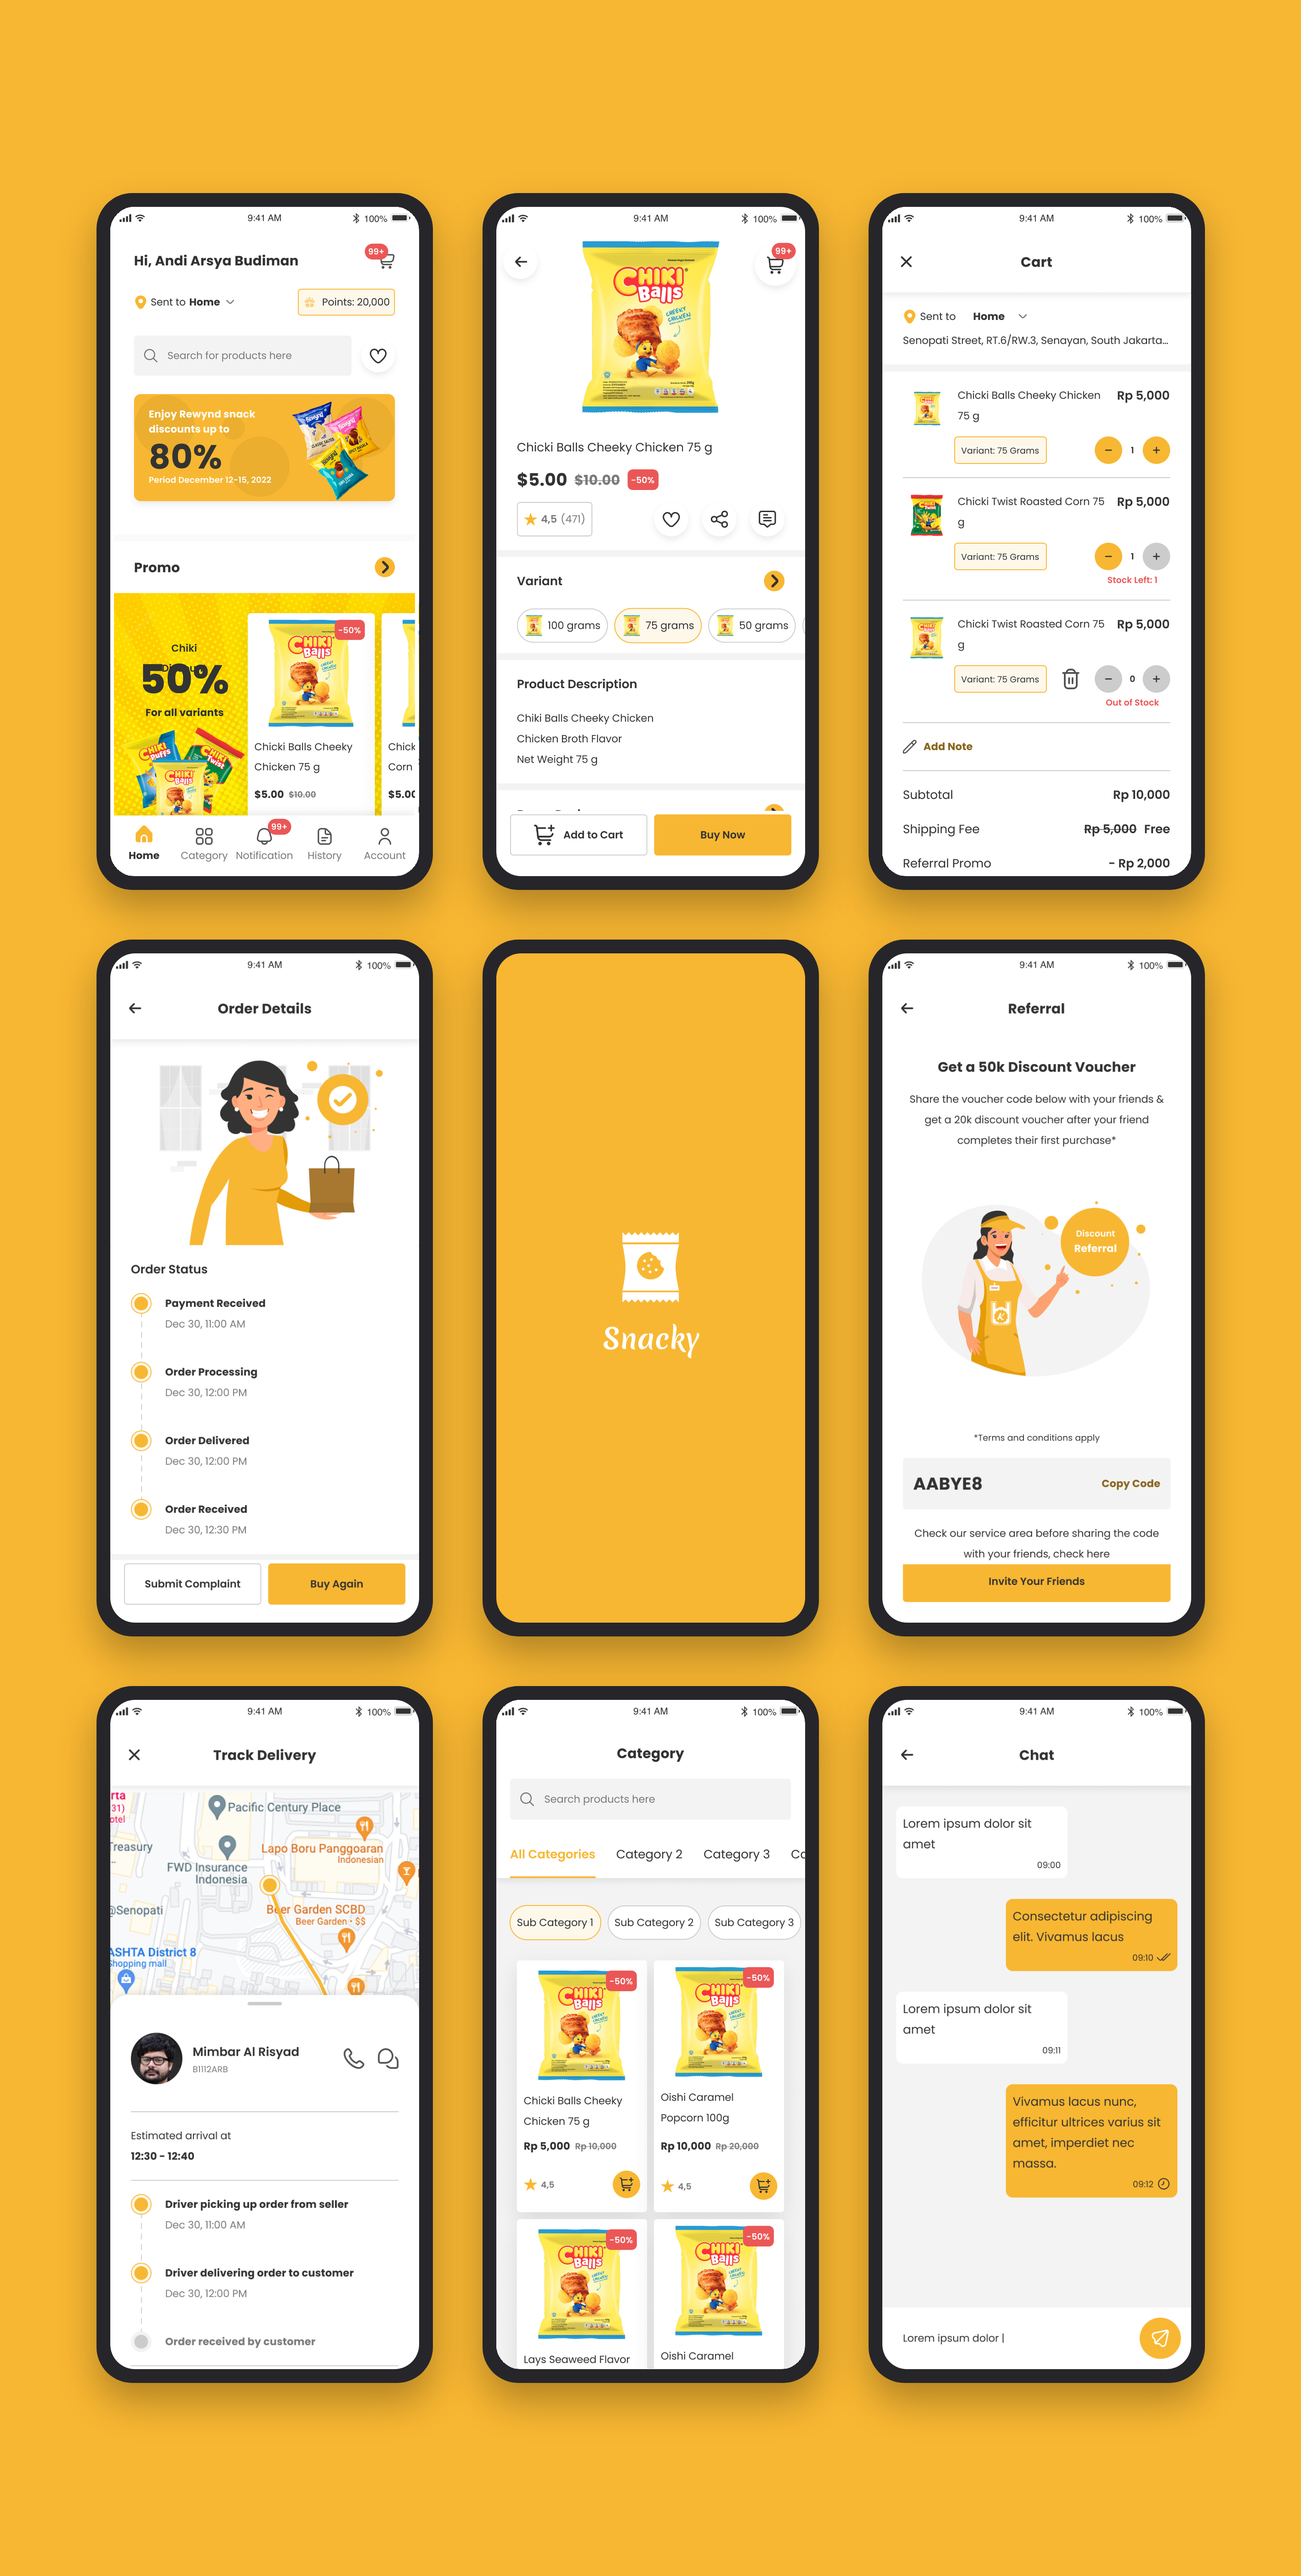
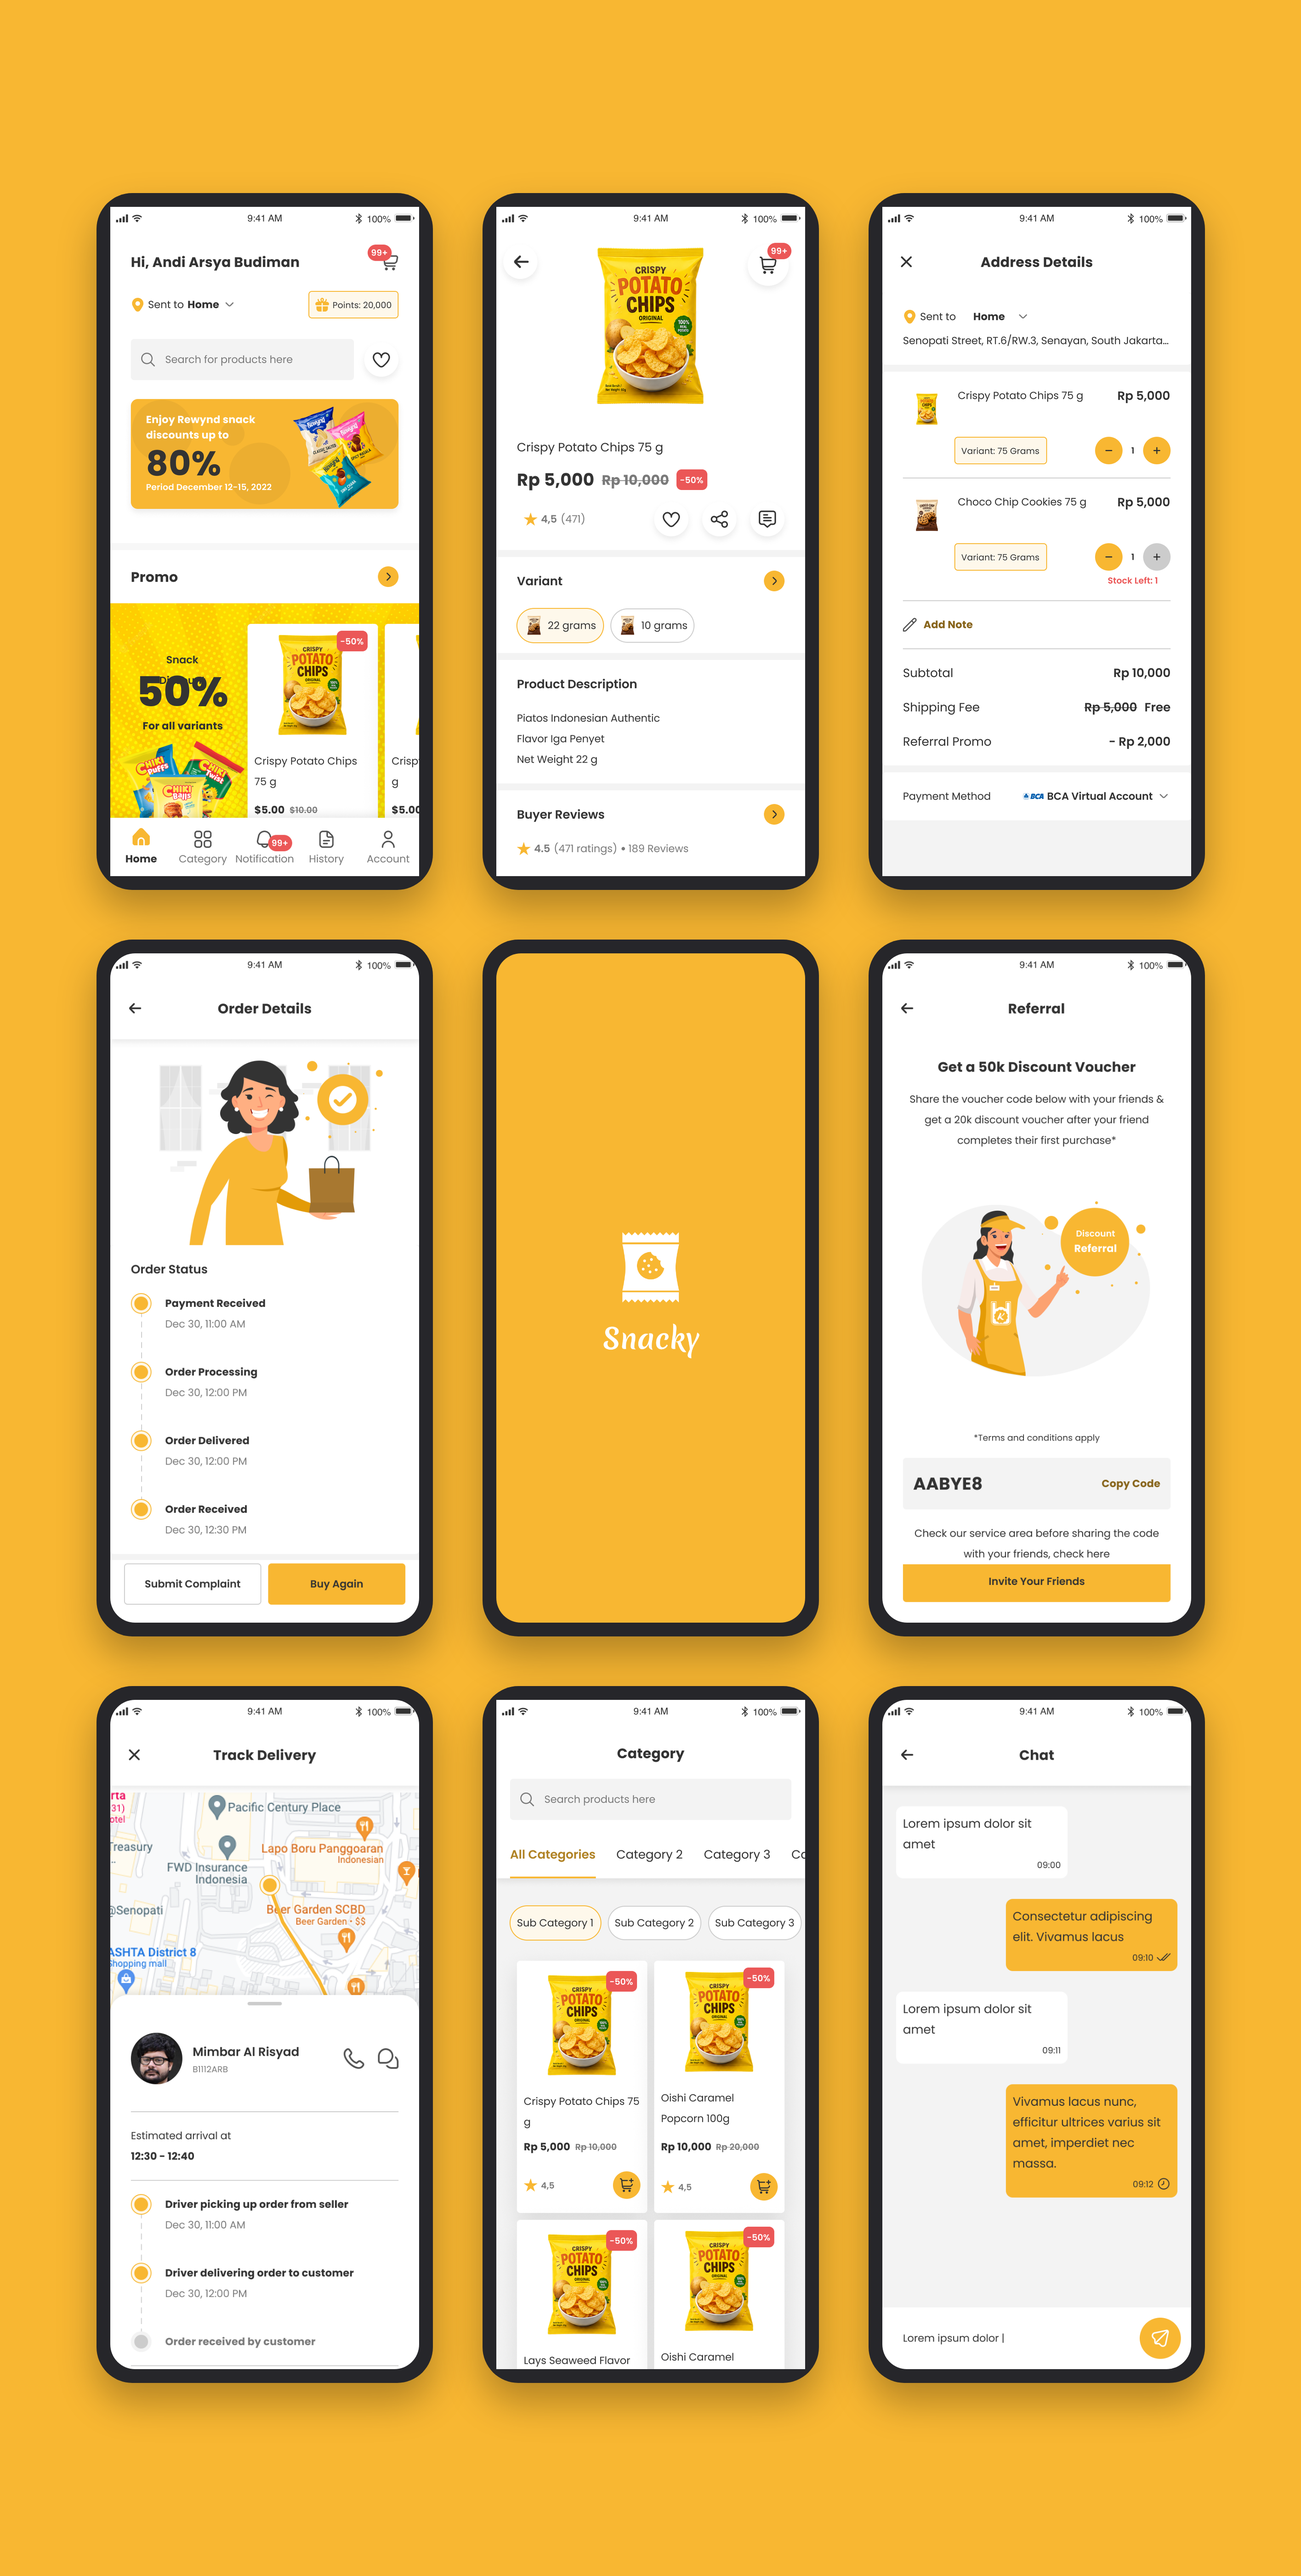
Update the homepage showcase mockup and fix two more Chiki instances
showcase-mockup.png (rendered on index.html's own homepage) was the actual
file the user asked about, missed earlier because the search went to Figma
and the external article project instead of this repo's own assets folder.
Rebuilt the four affected phone screens in the collage from fresh exports of
the now-fixed Figma frames. That surfaced two more photo/text mismatches the
Product Card fix never reached (Home's promo cards and Kategori's first card
run through a separate, unlinked local component), fixed the same way.

diff --git a/CLAUDE.md b/CLAUDE.md
@@ -905,9 +905,56 @@ silently and needs `connect --safe` re-run before most calls (harmless, just
 retry); and `export node`/`verify` at a high `--scale` on a tall/dense frame
 reliably times out with a bare "fetch failed" while the same call at `--scale
 1-2` (or `--max` capped around 2000-3000px) succeeds, so scale down before
-concluding a node is broken. `verify --save` is the more reliable of the two
-export commands and was used in place of `export node` for every PNG in this
-fix.
+concluding a node is broken. A third symptom of the same flakiness: a script
+can return an empty result (`[]`, no error) even though every mutation inside
+it actually landed on the Figma side, because the response, not the request,
+is what dropped. Re-reading the target nodes after an empty-looking result is
+cheaper than assuming the call did nothing and retrying blind. `verify --save`
+is the more reliable of the two export commands and was used in place of
+`export node` for every PNG in this fix.
+
+**The Chiki fix above missed the file the user actually asked about, because it
+was never searched for inside this repo's own `assets/images/`.** `index.html`'s
+own homepage (`renderHome()`) embeds `assets/images/showcase-mockup.png`, a
+2831x5604 nine-screen collage on an orange background, exactly the image the
+user's very first message in this exchange had attached. The investigation
+above went straight to Figma and to the external article project
+([[article-and-assets]]) and concluded the mockup must live outside the repo;
+it did not. Lesson: when a user attaches an image and says "this", check the
+repo's own asset folders (`grep`/`ls assets/`) before widening the search to
+Figma or another project, when a tracked file is cheaper to find than a Figma
+node and ruling it out first avoids exactly this kind of miss.
+Fixing the file for real also surfaced two more instances of the same
+photo/text mismatch, on the Customer App screens themselves this time, not the
+component library: `Home`'s three promo-grid cards and `Kategori`'s first
+product card all still said "Chicki Balls/Twist/Puffs" over the already-swapped
+Crispy Potato Chips photo. These did NOT inherit the `Product Card` component
+fix above, because they run through a second, separate local component
+(`111:201`) never wired to the same source, or (`Kategori`'s card) carry their
+own local text override that decouples an instance from its master even when
+the base component id matches. Fixed the same way: text retexted to match each
+card's actual photo (all landed on Crispy Potato Chips, since all six affected
+cards share the one photo), and the Home promo banner's "Chiki Discount" label
+retexted to "Snack Discount". `Detail Barang`'s own title needed no Figma edit
+at all: it inherits the `Product Card` master's text with no local override,
+so the master fix above had already corrected it silently.
+The showcase image itself was rebuilt, not hand-edited: with the phone bezels
+laid out on an exact grid (three columns, three rows, each phone's outer frame
+732x1516 with a uniform 30px border on every side, found by masking the frame's
+`(38,38,42)` bezel color and running connected-components on it), the four
+affected phones' content rectangles were replaced by pasting a freshly-cropped
+top-780px-tall "viewport" of each fixed screen's real Figma export, scaled to
+fit. The 780px crop height matters: these screens are scrollable pages taller
+than one phone viewport (`Detail Barang` is 1399, `Kategori` is 1520), and the
+original mockup was already showing just the first screenful, not the whole
+scroll, so pasting a full-page export instead would have looked stretched and
+tiny next to the other five untouched phones. Left alone, deliberately: the
+promo banner's own hand-drawn illustration (still shows miniature "Chiki
+Puffs"/"Chiki Twist"/"Chiki Balls" bags baked into the artwork, not a text
+field) and `Detail Barang`'s small variant-weight icons and review-photo
+thumbnails (still the old Chiki bag images, not text): both are image content
+a text fix cannot reach, and neither was the specific "still says Chicki"
+complaint this pass was chasing.
 
 ## Key rules (don't relitigate these, they're already decided)
 
